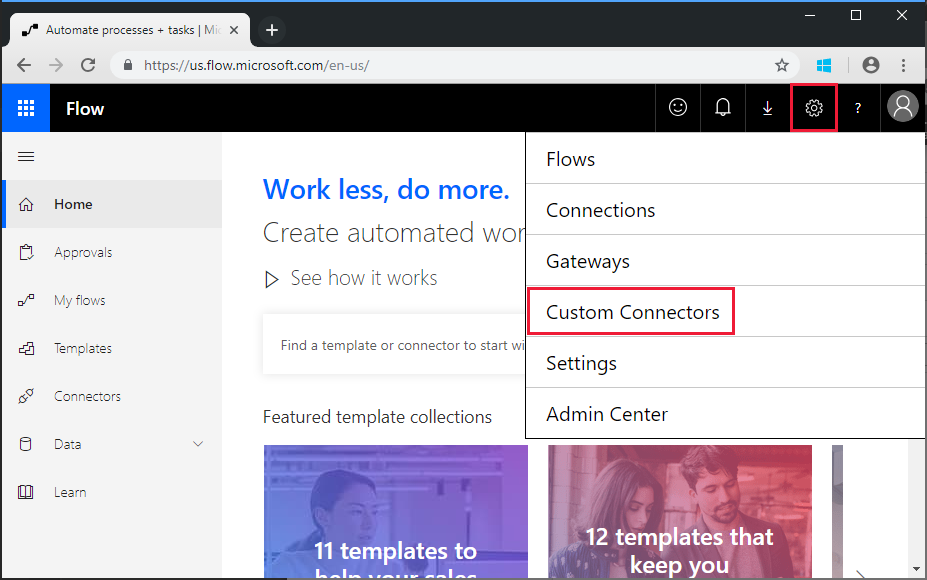
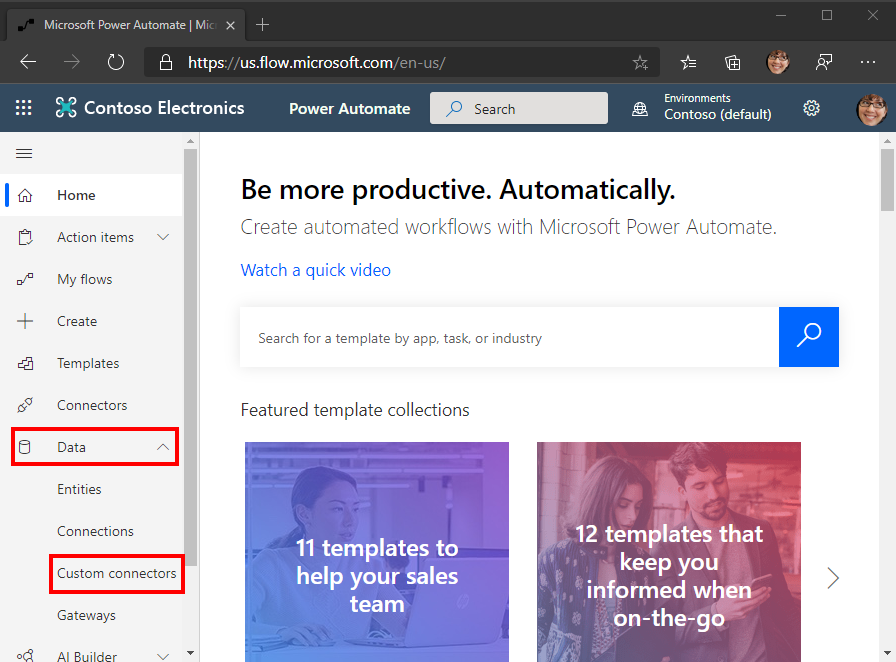
Updated tutorial for new Flow UX

diff --git a/tutorial/create-flow.md b/tutorial/create-flow.md
@@ -6,9 +6,9 @@ In the end your Flow will look similar to the following image:
 
 ![A screen shot of the completed Flow](./images/flow-team1.png)
 
-Open [Microsoft Flow](https://flow.microsoft.com) in your browser and sign in with your Office 365 tenant administrator account. Choose **My Flows** in the left-hand navigation. Choose **New**, then **Create from blank**. Choose **Create from blank**. Enter `Manual` in the search box and add the **Manually trigger a flow** trigger.
+Open [Microsoft Flow](https://flow.microsoft.com) in your browser and sign in with your Office 365 tenant administrator account. Choose **My Flows** in the left-hand navigation. Choose **New**, then **Instant--from blank**. Enter `Create Team` for **Flow name**, then select **Manually trigger a flow** under **Choose how to trigger this flow**. Choose **Create**.
 
-Choose **Add an input**, select **Text** and enter `Name` as the title.
+Select the **Manually trigger a flow** item, then choose **Add an input**, select **Text** and enter `Name` as the title.
 
 ![A screen shot of the Manually trigger a flow trigger](./images/flow-team6.png)
 
@@ -87,7 +87,7 @@ This formula specifies that we want to use the group ID from the result of the f
 
 ![A screen shot of the updated action body](./images/flow-team3.png)
 
-Choose **Save**, then Flow and choose **Test** to execute the Flow.
+Choose **Save**, then choose **Test** to execute the Flow.
 
 > [!TIP]
 > If you receive an error like `The template validation failed: 'The action(s) 'Batch_POST-groups' referenced by 'inputs' in action 'Batch_2' are not defined in the template'`, the expression is incorrect and likely references a Flow action it cannot find. Ensure that the action name you are referencing matches exactly.
@@ -96,11 +96,6 @@ Choose the **I'll perform the trigger** action radio button and choose **Save & 
 
 ![A screen shot of the Run flow dialog](./images/flow-team4.png)
 
-Finally, choose the **See flow run activity** link, then select the running Flow to see the activity log.
-
-> [!NOTE]
-> You may have to click on your running Flow instance in the Run history list to view your Flow execution.
-
-Once the Flow completes, your Office 365 Group and Team have been configured. Select the Batch action items to view the results of the JSON Batch calls. The `outputs` of the `Batch PUT-team` action should have a status code of 201 for a successful Team association similar to the image below.
+Finally, choose the **Done** to see the activity log. Once the Flow completes, your Office 365 Group and Team have been configured. Select the Batch action items to view the results of the JSON Batch calls. The `outputs` of the `Batch PUT-team` action should have a status code of 201 for a successful Team association similar to the image below.
 
 ![A screen shot of the successful flow activity log](./images/flow-team5.png)

diff --git a/tutorial/create-connector-preview.md b/tutorial/create-connector-preview.md
@@ -6,15 +6,11 @@ Using a text editor, create a new empty file named `MSGraph-Delegate-Batch.swagg
 
 [!code-json[](../LabFiles/MSGraph-Delegate-Batch.swagger.json)]
 
-Open a browser and navigate to [Microsoft Flow](https://flow.microsoft.com). Sign in with your Office 365 tenant administrator account. Choose the gear icon in the upper right, and select the **Custom Connectors** item in the drop-down menu.
+Open a browser and navigate to [Microsoft Flow](https://flow.microsoft.com). Sign in with your Office 365 tenant administrator account. In the left-hand menu, expand **Data** and choose **Custom connectors**.
 
-![A screen shot of the drop-down menu in Microsoft Flow](./images/flow-conn1.png)
+![A screen shot of the Custom connectors menu item in Microsoft Flow](./images/flow-conn1.png)
 
-On the **Custom Connectors** page choose the **Create custom connector** link in the top right, then select the **Import an Open API file** item in the drop-down menu.
-
- ![A screen shot of the Create custom connector drop-down menu in Microsoft Flow](./images/flow-conn2.png)
-
-Enter `MS Graph Batch Connector` in the **Custom connector name** text box. Choose the folder icon to upload the Open API file. Browse to the `MSGraph-Delegate-Batch.swagger.json` file you created. Choose **Continue** to upload the Open API file.
+On the **Custom connectors** page choose the **New custom connector** link in the top right, then select the **Import an OpenAPI file** item in the drop-down menu. Enter `MS Graph Batch Connector` in the **Connector name** text box. Choose **Import** button to upload the Open API file. Browse to the `MSGraph-Delegate-Batch.swagger.json` file you created. Choose **Continue** to upload the OpenAPI file.
 
  ![A screen shot of the Create custom connector dialog](./images/flow-conn3.png)
 

diff --git a/tutorial/use-batch.md b/tutorial/use-batch.md
@@ -69,11 +69,7 @@ body('Batch_PUT-team').responses[0].body.id
 
 Choose **Save**, then choose **Test** to execute the Flow. Select the **I'll perform the trigger** action radio button, then choose **Save & Test**. Enter a unique group name in the **Name** field without spaces, and choose **Run flow** to execute the Flow.
 
-![A screen shot of the Run flow dialog](./images/flow-channel3.png)
-
-Once the Flow starts, choose the **See flow run activity** link, then choose the running Flow to see the activity log.
-
-When the Flow completes, the final output for the `Batch POST-channels` action has a 201 HTTP Status response for each Channel created.
+Once the Flow starts, choose the **Done** button to see the activity log. When the Flow completes, the final output for the `Batch POST-channels` action has a 201 HTTP Status response for each Channel created.
 
 ![A screen shot of the successful flow activity log](./images/flow-channel2.png)
 
